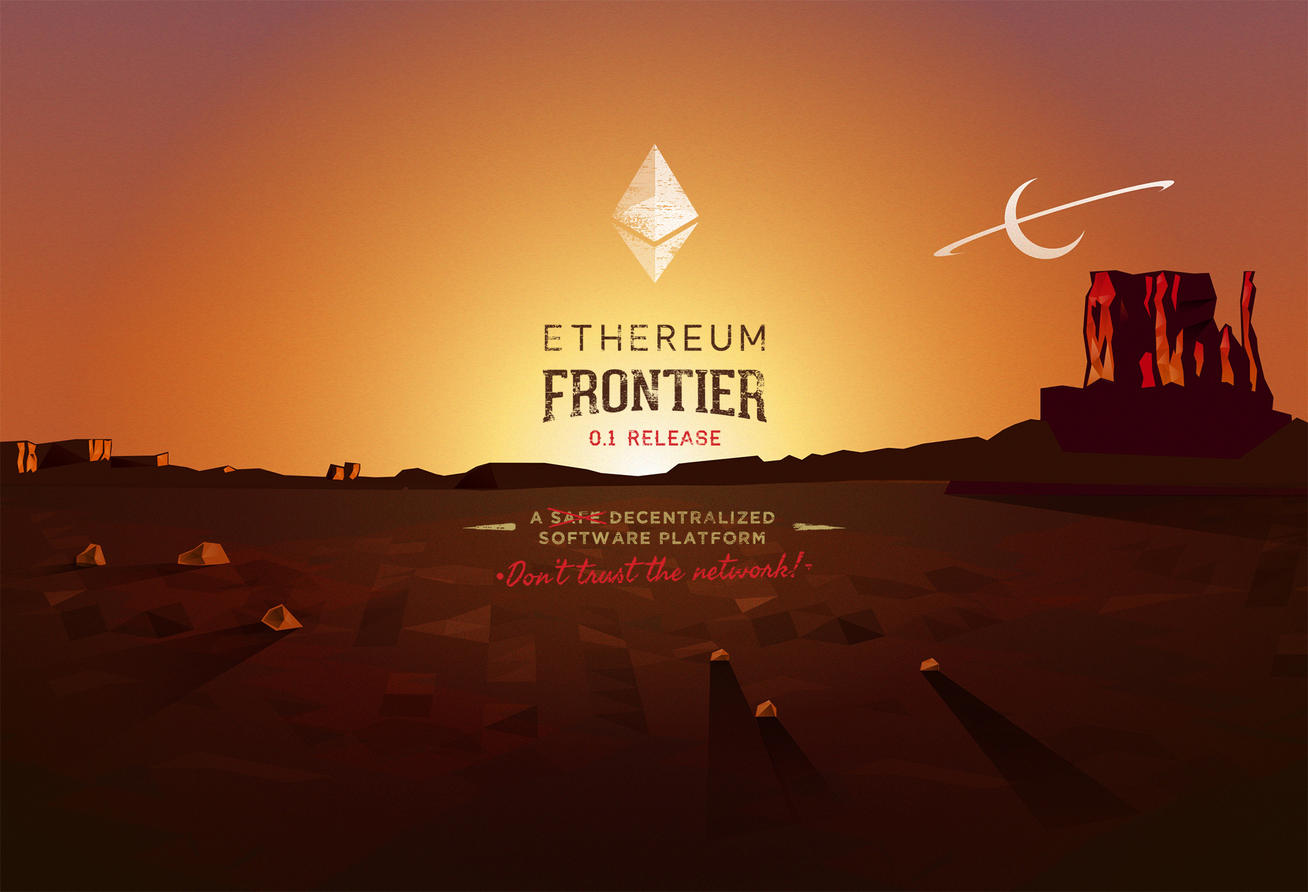
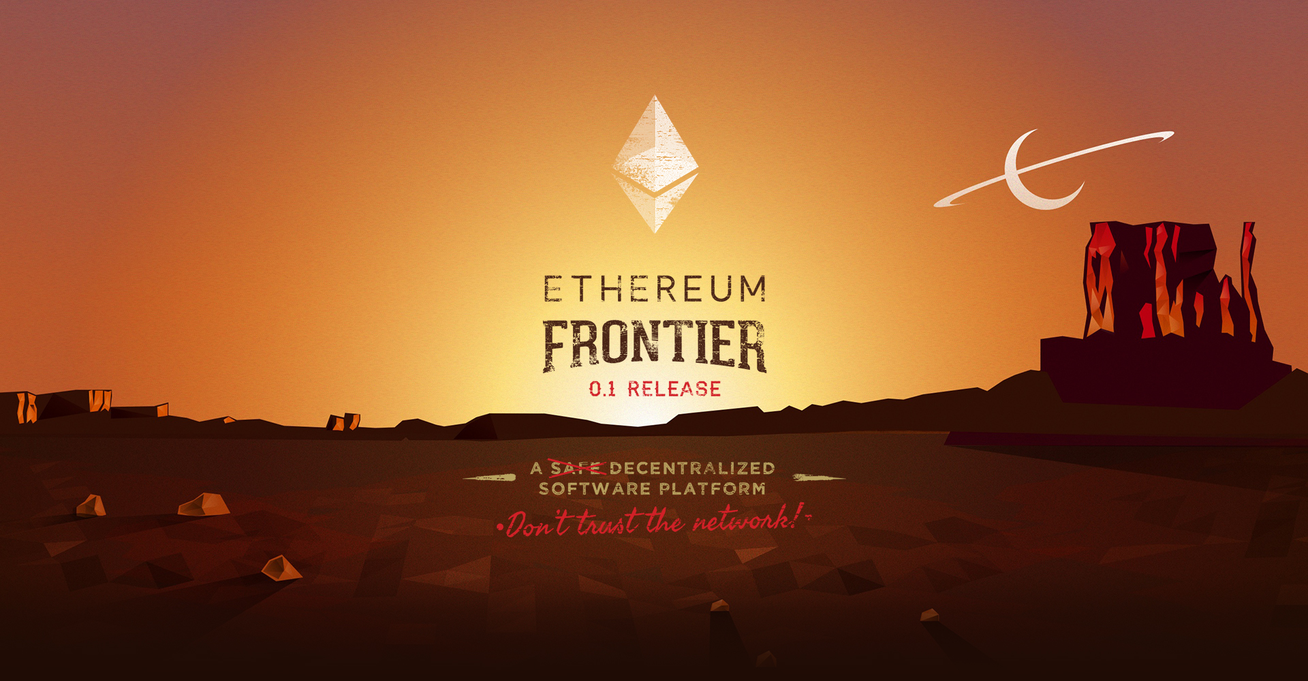
added new header

diff --git a/public/css/style.css b/public/css/style.css
@@ -65,6 +65,9 @@ header, footer {
 
 header {
 	border-bottom: 3px solid #eb453e;
+	height: 1000px;
+	background: url('../images/header.jpg') top center no-repeat;
+	background-size: 1920px auto;
 }
 
 header .logo {
@@ -107,6 +110,7 @@ header h2 {
 #block-content {
 	background: #0e0e0e;
 	background: #161c30;
+	background: #1f0c05;
 	padding-top: 10px;
 	padding-bottom: 15px;
 	border-bottom: 3px solid #8A92B2;
